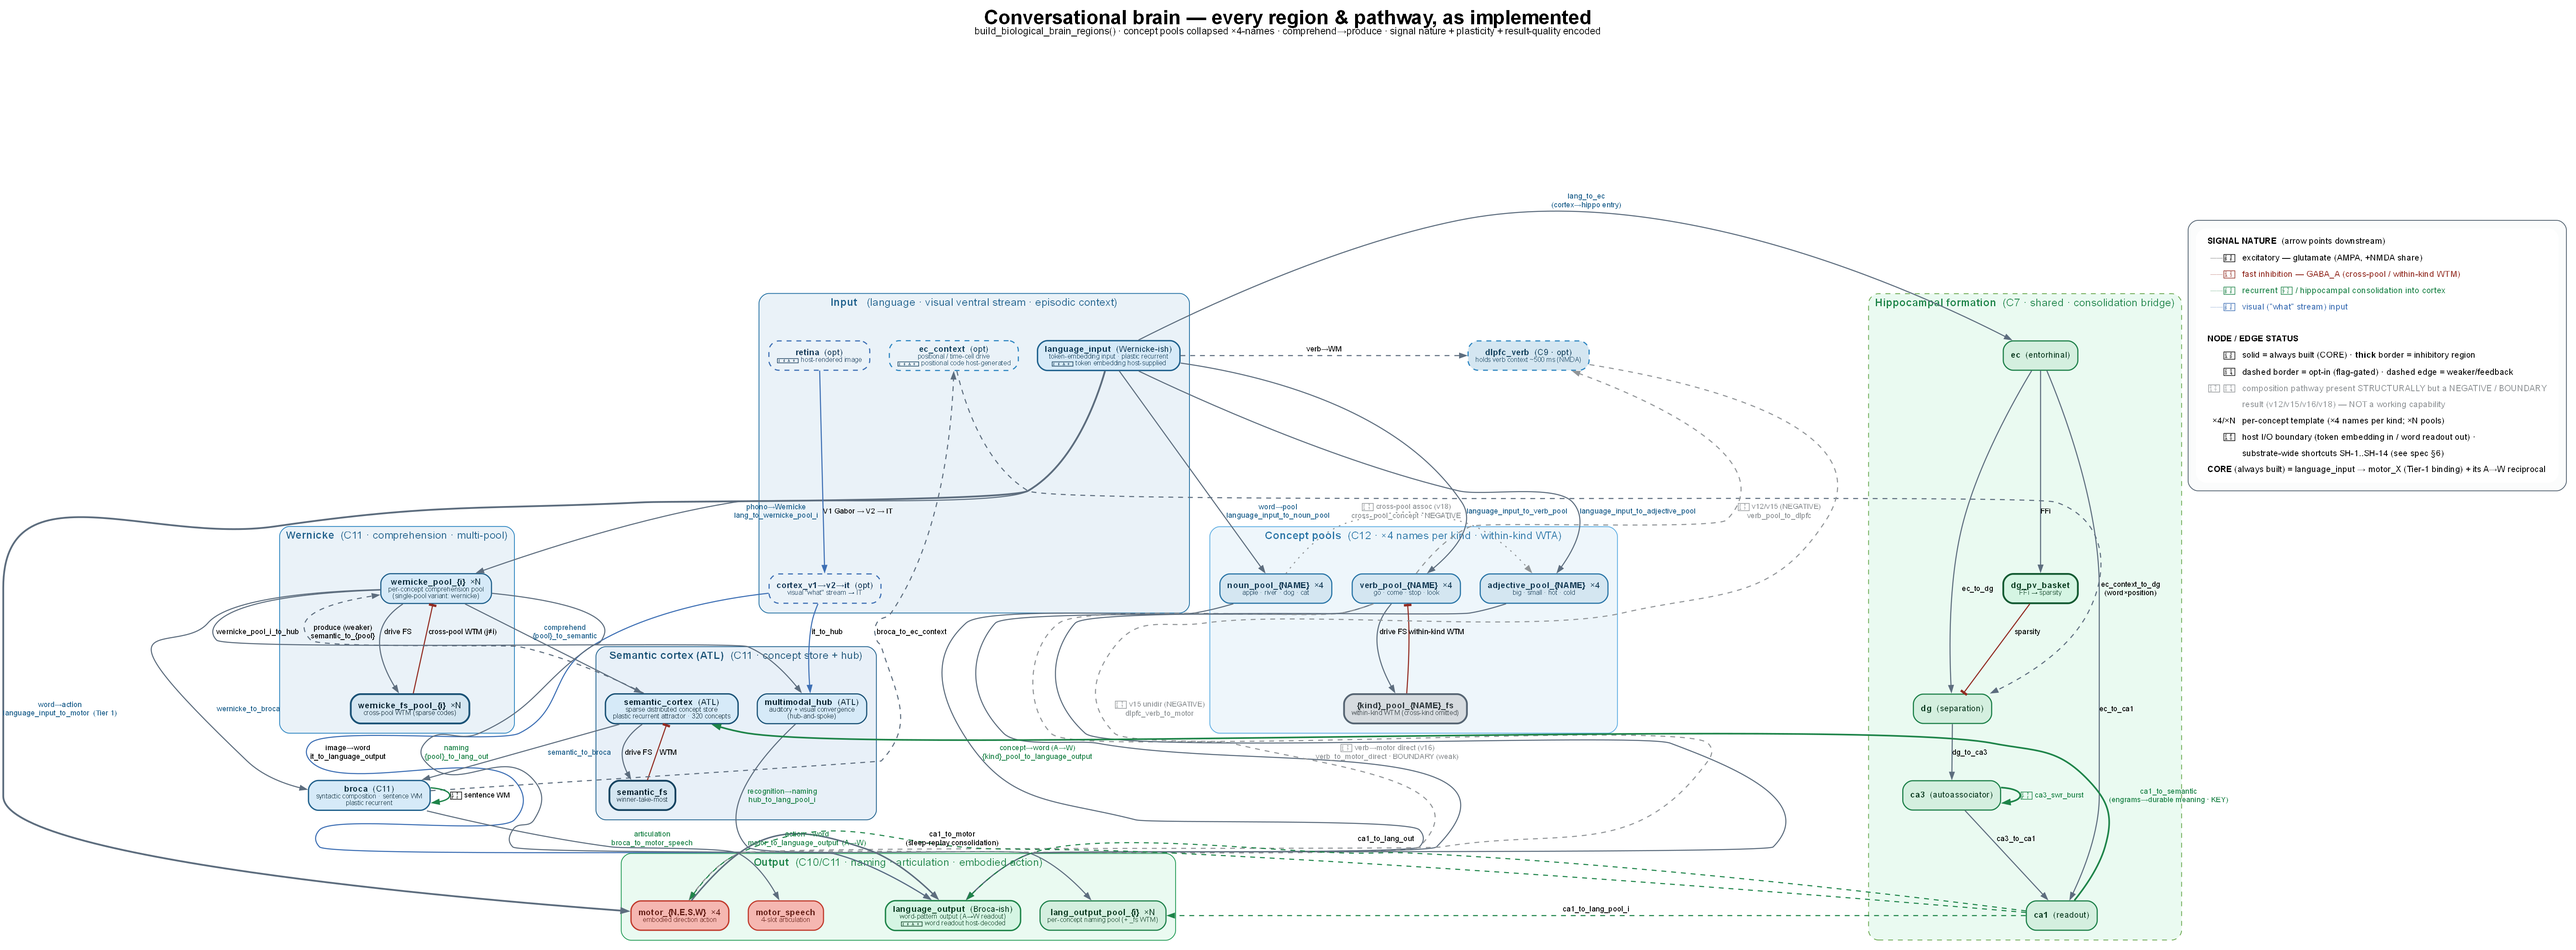
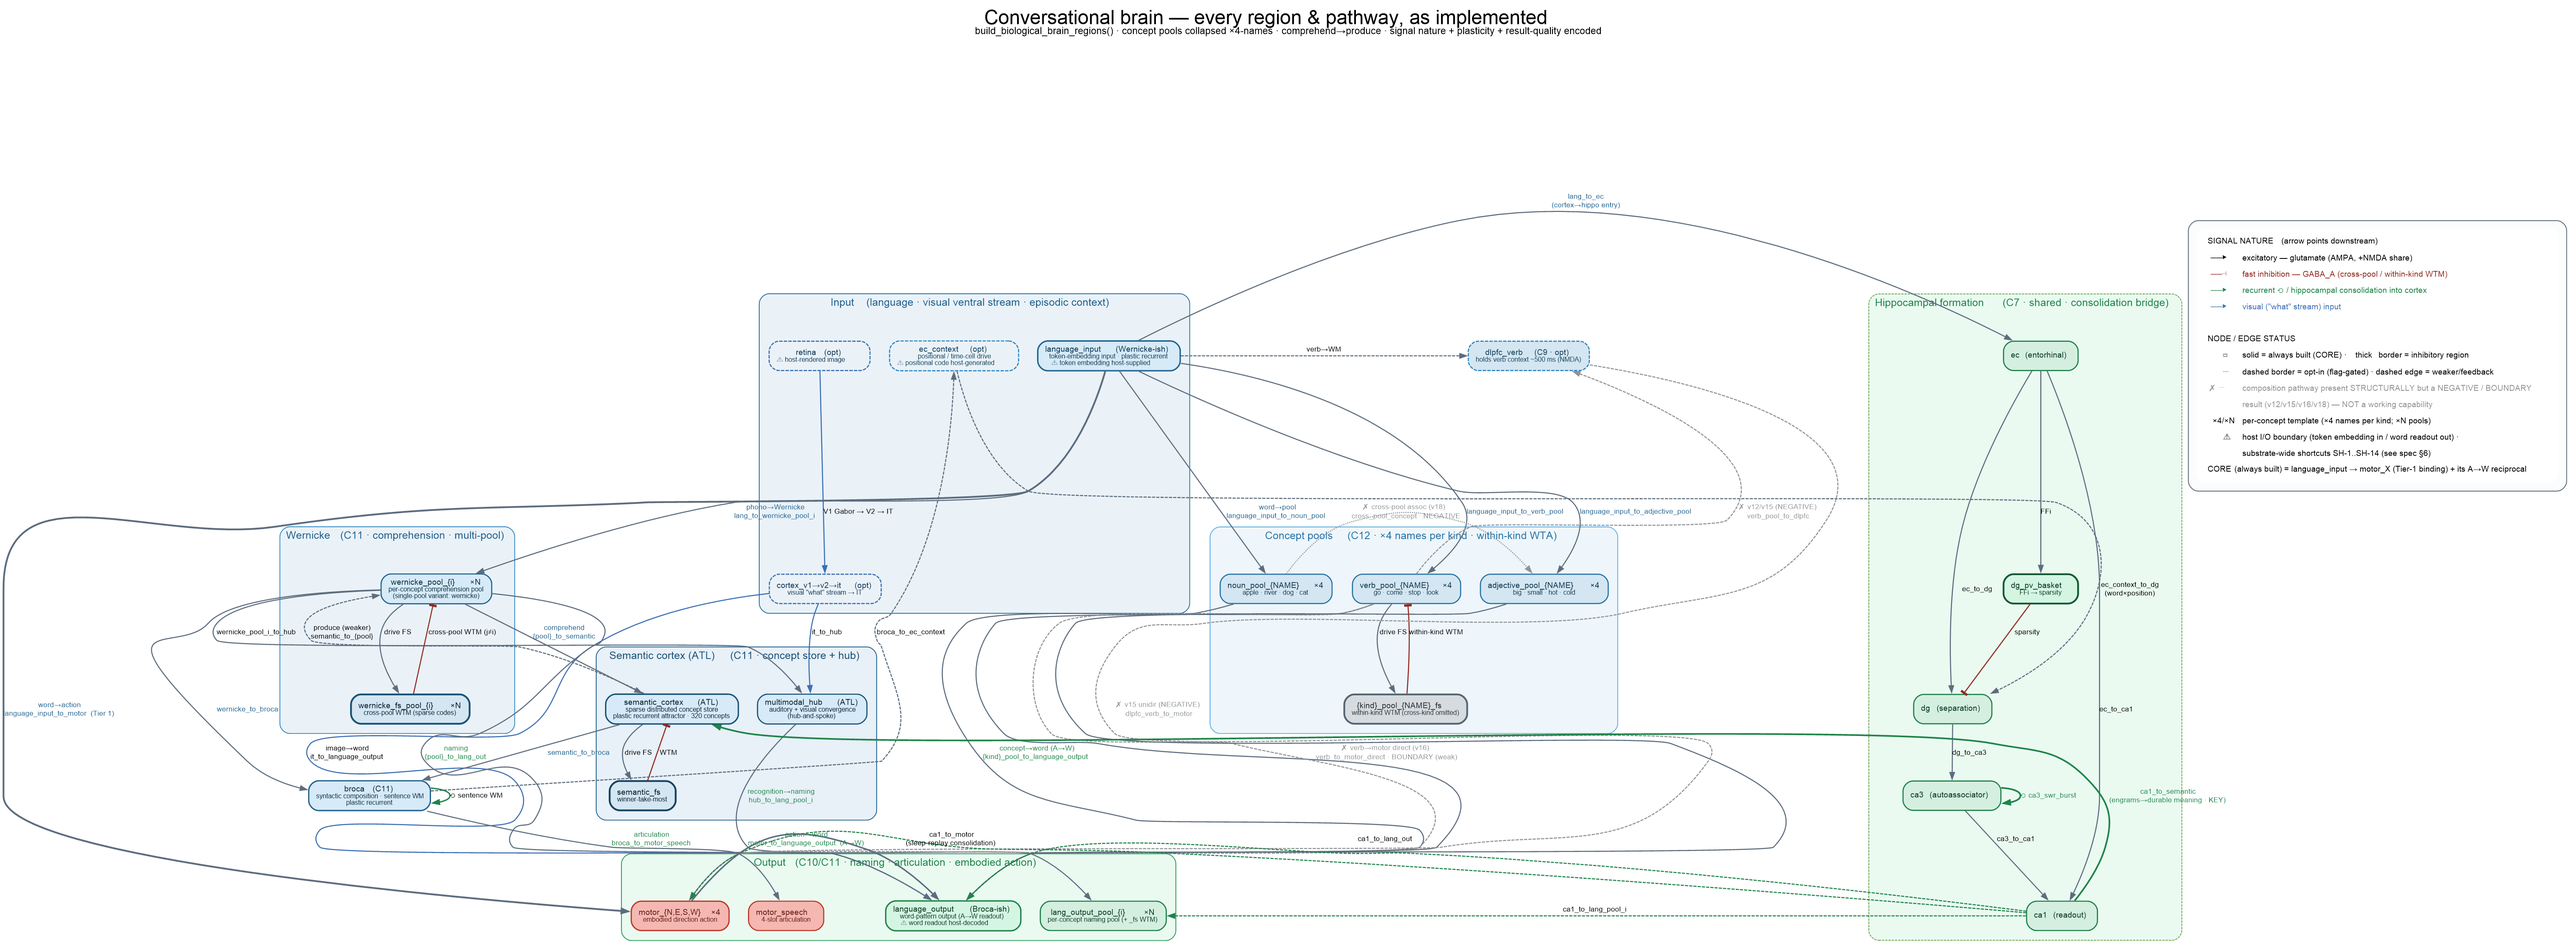
docs(diagrams): fix tofu glyphs in PNGs — render with gdiplus (Windows per-glyph font fallback)
The diagrams use box-drawing + symbol glyphs (warn/tee/heavy-bar/triangle/boxed-minus/circle-arrow/
diamond) in Helvetica, which Arial-on-Windows lacks. The default Cairo PNG renderer (no Unicode
fallback font for fontconfig on this box) left them as empty boxes showing the code point (26A0=warn,
2501=heavy-bar, etc.). Re-rendered all three PNGs with -Tpng:gdiplus, which uses Windows GDI+ per-glyph
font-linking: the symbols now substitute from a symbol font while the Helvetica body text is preserved
(verified on a glyph-row A/B render + the full master). Documented the platform-aware render command +
the cause in the diagrams README (Windows gdiplus; Linux/mac Cairo + DejaVu Sans; SVG relies on viewer
fallback). Only the PNGs changed; .dot + SVG untouched.

diff --git a/docs/diagrams/README.md b/docs/diagrams/README.md
@@ -106,10 +106,21 @@ Requires Graphviz (`dot`). On Windows: `winget install Graphviz.Graphviz`.
 ```bash
 cd docs/diagrams
 for f in brain_master brain_navigation brain_conversational; do
-  dot -Tsvg          "$f.dot" -o "$f.svg"
-  dot -Tpng -Gdpi=140 "$f.dot" -o "$f.png"
+  dot -Tsvg              "$f.dot" -o "$f.svg"   # SVG: viewers do per-glyph font fallback
+  dot -Tpng:gdiplus -Gdpi=140 "$f.dot" -o "$f.png"   # Windows: gdiplus for symbol glyphs
 done
 ```
+
+**Font note (important).** The diagrams use box-drawing and symbol glyphs (⚠ ⊣ ━ ▶
+⊟ ⟲ ◆ …) in `Helvetica`, which Arial-on-Windows lacks. The default Cairo PNG
+renderer leaves them as empty boxes showing the code point (e.g. `26A0`, `2501`)
+unless a Unicode-complete fallback font (e.g. *DejaVu Sans*) is available to
+fontconfig. Two fixes: on **Windows**, render PNGs with `-Tpng:gdiplus` (GDI+ does
+per-glyph font-linking, so only the missing symbols substitute and the Helvetica
+body text is preserved — used above); on **Linux/macOS**, the default
+`-Tpng`/Cairo works once *DejaVu Sans* is installed (it ships with most Graphviz
+packages). The SVGs name `Helvetica` and rely on the viewer's own font fallback,
+so they render correctly in browsers regardless.
 
 The `.dot` sources are the source of truth; edit them and re-render. They are
 authored from the as-implemented extraction spec (linked above), which in turn
